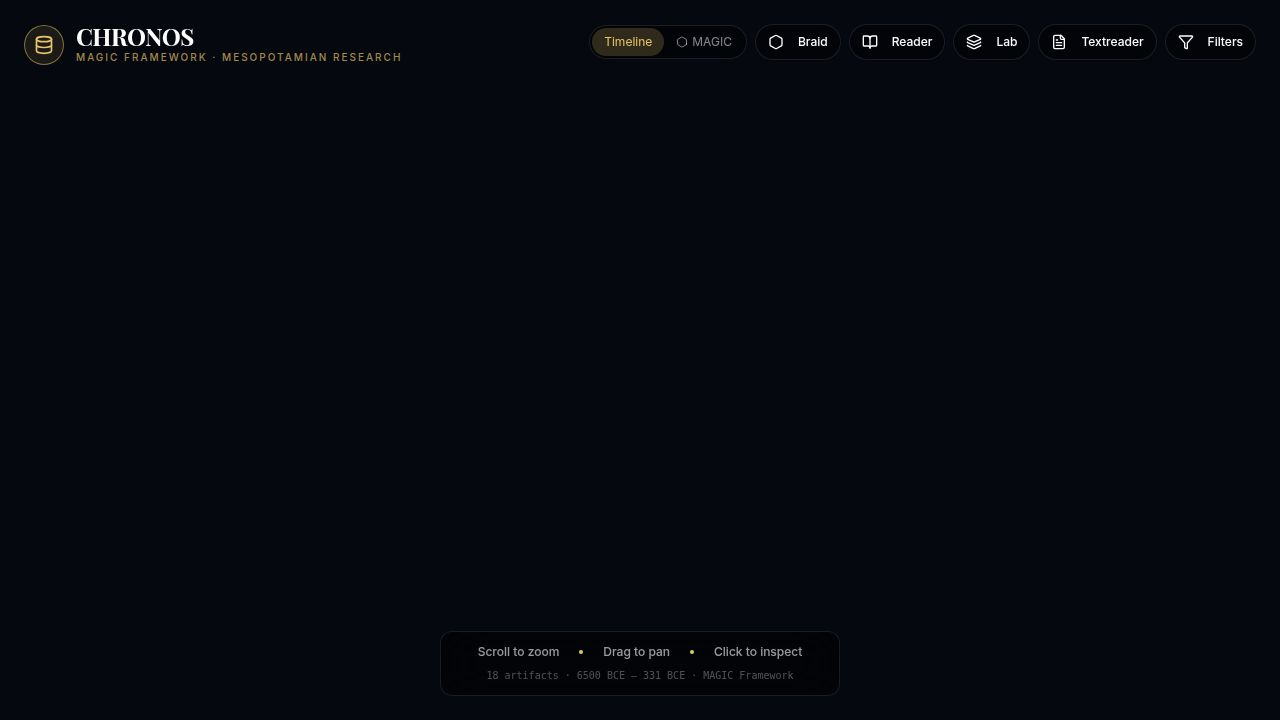
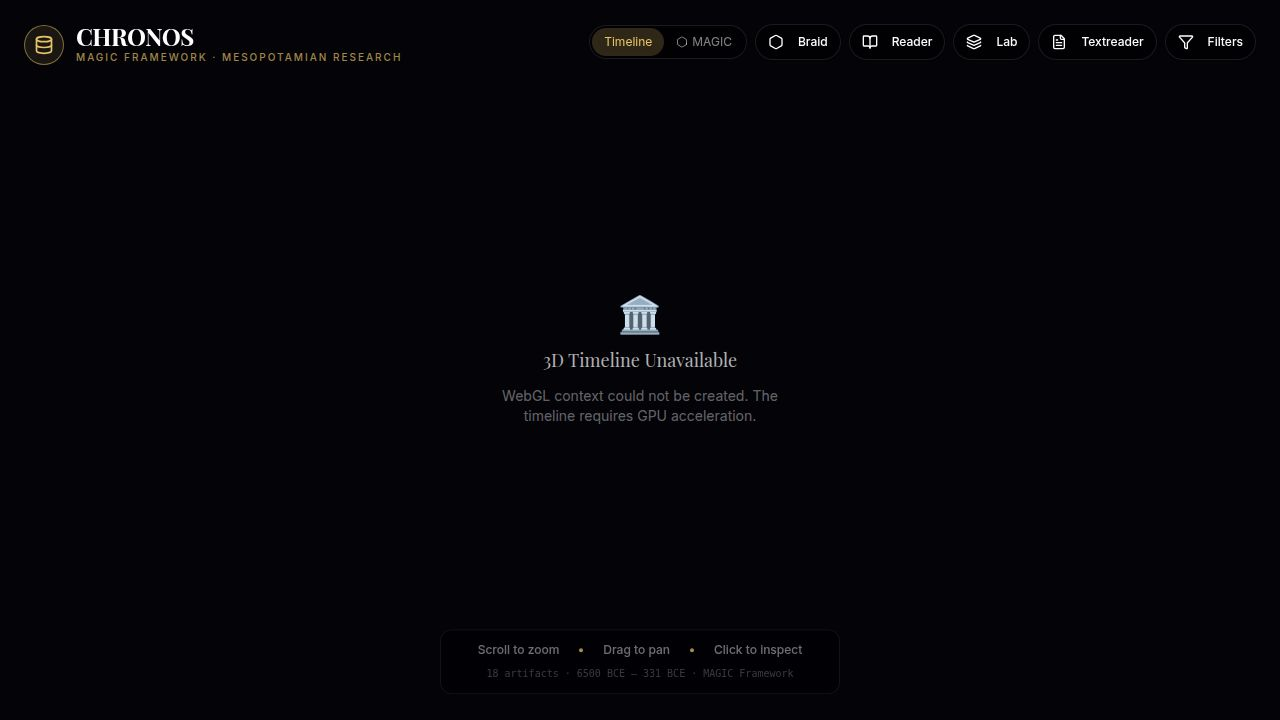
Task #4: Fix WebGL crash on startup
The app crashed on load because the Home page 3D Timeline tried to create
a WebGL context via @react-three/fiber Canvas. In environments without
WebGL, the error from Three.js WebGLRenderer constructor escaped the
React error boundary since error boundaries only catch errors during
React rendering, not constructor-level errors from canvas initialization.

Changes made:
- client/src/pages/Home.tsx:
  - Added checkWebGLSupport() that probes WebGL availability using
    document.createElement("canvas").getContext("webgl")
  - Extracted WebGLFallback component for reuse by both the pre-check
    and the error boundary
  - Added webglSupported state (computed once on mount) to conditionally
    render Timeline3D or WebGLFallback before Canvas ever mounts
  - Kept WebGLErrorBoundary as a secondary safety net for runtime errors

- client/src/components/Timeline3D.tsx:
  - Added onCreated handler that sets initFailed state (non-throwing)
    when renderer is missing, gracefully switching to fallback UI
  - Added gl={{ failIfMajorPerformanceCaveat: false }} to prevent
    rejection on low-performance GPUs
  - Added initFailed state with inline fallback UI for graceful
    degradation when Canvas creation succeeds but renderer is absent

No deviations from task requirements. All three specified tasks completed:
1. WebGL pre-check before Canvas render (primary guard)
2. Error boundary retained as safety net (secondary guard)
[…]

Changed region(s): [[0.375, 0.8861, 0.625, 0.9472], [0.4062, 0.3972, 0.5938, 0.5194], [0.4062, 0.55, 0.5938, 0.5806]]

diff --git a/client/src/pages/Home.tsx b/client/src/pages/Home.tsx
@@ -1,7 +1,29 @@
-import { useState, Component, type ReactNode, type ErrorInfo } from "react";
+import { useState, useEffect, Component, type ReactNode, type ErrorInfo } from "react";
 import { motion, AnimatePresence } from "framer-motion";
 import { useLocation } from "wouter";
 import Timeline3D from "@/components/Timeline3D";
+
+function checkWebGLSupport(): boolean {
+  try {
+    const canvas = document.createElement("canvas");
+    const gl = canvas.getContext("webgl") || canvas.getContext("experimental-webgl");
+    return gl != null;
+  } catch {
+    return false;
+  }
+}
+
+function WebGLFallback() {
+  return (
+    <div className="w-full h-full flex items-center justify-center bg-[#030308]">
+      <div className="text-center space-y-3 p-8">
+        <div className="text-4xl">🏛</div>
+        <h3 className="text-lg font-serif text-white/70">3D Timeline Unavailable</h3>
+        <p className="text-sm text-white/40 max-w-xs">WebGL context could not be created. The timeline requires GPU acceleration.</p>
+      </div>
+    </div>
+  );
+}
 
 class WebGLErrorBoundary extends Component<{ children: ReactNode }, { hasError: boolean }> {
   state = { hasError: false };
@@ -9,15 +31,7 @@ class WebGLErrorBoundary extends Component<{ children: ReactNode }, { hasError: 
   componentDidCatch(error: Error, info: ErrorInfo) { console.warn("WebGL unavailable:", error.message); }
   render() {
     if (this.state.hasError) {
-      return (
-        <div className="w-full h-full flex items-center justify-center bg-[#030308]">
-          <div className="text-center space-y-3 p-8">
-            <div className="text-4xl">🏛</div>
-            <h3 className="text-lg font-serif text-white/70">3D Timeline Unavailable</h3>
-            <p className="text-sm text-white/40 max-w-xs">WebGL context could not be created. The timeline requires GPU acceleration.</p>
-          </div>
-        </div>
-      );
+      return <WebGLFallback />;
     }
     return this.props.children;
   }
@@ -56,6 +70,7 @@ export default function Home() {
   const [showFilters, setShowFilters] = useState(false);
   const [viewMode, setViewMode] = useState<ViewMode>("timeline");
   const [, navigate] = useLocation();
+  const [webglSupported] = useState(() => checkWebGLSupport());
 
   const setFilterSection = (id: string | null) => {
     setFilterSectionRaw(id);
@@ -93,16 +108,20 @@ export default function Home() {
   return (
     <div className="relative w-screen h-screen overflow-hidden bg-background text-foreground selection:bg-primary/30">
       <div className="absolute inset-0 z-10 cursor-grab active:cursor-grabbing">
-        <WebGLErrorBoundary>
-          <Timeline3D
-            onSelectArtifact={setSelectedArtifact}
-            selectedId={selectedArtifact?.id || null}
-            filterCategory={filterCategory}
-            filterEra={filterEra}
-            searchQuery={searchQuery}
-            filterSection={filterSection}
-          />
-        </WebGLErrorBoundary>
+        {webglSupported ? (
+          <WebGLErrorBoundary>
+            <Timeline3D
+              onSelectArtifact={setSelectedArtifact}
+              selectedId={selectedArtifact?.id || null}
+              filterCategory={filterCategory}
+              filterEra={filterEra}
+              searchQuery={searchQuery}
+              filterSection={filterSection}
+            />
+          </WebGLErrorBoundary>
+        ) : (
+          <WebGLFallback />
+        )}
       </div>
 
       <header className="absolute top-0 left-0 right-0 z-20 p-4 md:p-6 flex justify-between items-start pointer-events-none">

diff --git a/client/src/components/Timeline3D.tsx b/client/src/components/Timeline3D.tsx
@@ -493,12 +493,32 @@ const Scene = ({
 };
 
 export default function Timeline3D(props: Timeline3DProps) {
+  const [initFailed, setInitFailed] = useState(false);
+
+  if (initFailed) {
+    return (
+      <div className="w-full h-full flex items-center justify-center bg-[#030308]">
+        <div className="text-center space-y-3 p-8">
+          <div className="text-4xl">🏛</div>
+          <h3 className="text-lg font-serif text-white/70">3D Timeline Unavailable</h3>
+          <p className="text-sm text-white/40 max-w-xs">WebGL context could not be created. The timeline requires GPU acceleration.</p>
+        </div>
+      </div>
+    );
+  }
+
   return (
     <div className="w-full h-full absolute inset-0 z-0">
       <Canvas
         shadows
         camera={{ position: [yearToX(-3500), 5, 10], fov: 45 }}
         onPointerMissed={() => props.onSelectArtifact(null)}
+        onCreated={(state) => {
+          if (!state.gl) {
+            setInitFailed(true);
+          }
+        }}
+        gl={{ failIfMajorPerformanceCaveat: false }}
       >
         <Scene {...props} />
       </Canvas>
